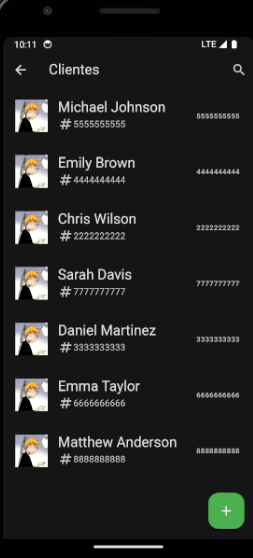
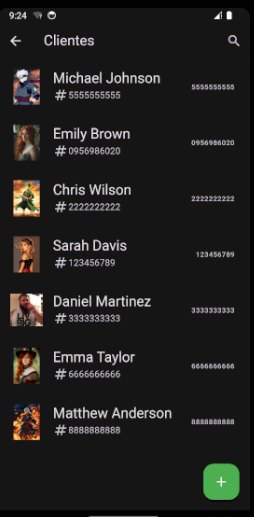
subiendo cambios

diff --git a/test/collection_test.dart b/test/collection_test.dart
@@ -1,0 +1,82 @@
+import 'dart:developer';
+import 'package:f_managment_stream_accounts/models/client.dart';
+import 'package:mongo_dart/mongo_dart.dart';
+
+class Subscription {
+  String? _cod;
+  List<Client>? _clients;
+  double? _valueToPay;
+
+  Subscription(
+      {String? codSubscription, List<Client>? clients, double? valueToPay})
+      : _cod = codSubscription,
+        _clients = clients,
+        _valueToPay = valueToPay;
+
+  factory Subscription.fromMapObject(Map<String, dynamic> map) {
+    // Parseando la lista de clientes desde el mapa
+    //log(map.toString());
+    try {
+      dynamic clientsData = (map['clients'] ?? map['CLIENTS']);
+      //log(clientsData.toString());
+      List<Client> clientes = clientsData
+          .map((clientMap) => Client.fromMap(clientMap))
+          .toList()
+          .cast<Client>();
+
+      //log(clientes.toString());
+      return Subscription(
+          codSubscription: map['cod_subscription'], clients: clientes);
+    } catch (e) {
+      throw FormatException(
+          'Error al convertir el mapa a objeto Subscription $e');
+    }
+  }
+
+  Map<String, dynamic> toMap() {
+    return {
+      'cod_subscription': codSubscription,
+      'clients': clients!.map((c) => c.toMapIdAndPrice()).toList(),
+      'value_to_pay': valueToPay,
+    };
+  }
+
+  // Getter methods
+  String? get codSubscription => _cod;
+  List<Client>? get clients => _clients!;
+  double get valueToPay => _valueToPay!;
+}
+
+void main() async {
+  Db? db;
+
+  try {
+    db = Db('mongodb://localhost:27017/test');
+    await db.open();
+  } catch (e) {
+    log('$e');
+  }
+
+  ///Crear la subscripcion
+  List<Client> clientes = [
+    Client(nameClient: 'Eduardo', direction: 'Olmedo'),
+    Client(nameClient: 'Jaime', direction: 'Quevedo'),
+    Client(nameClient: 'Pedro', direction: 'Cordova'),
+  ];
+
+  Subscription subscription =
+      Subscription(codSubscription: "001", clients: clientes, valueToPay: 20);
+  final collection = db!.collection('subscripcion_test');
+  var res = await collection.insertOne(subscription.toMap());
+
+  log("${res.isSuccess}");
+
+  //var result = await collection!.findOne({'_id': uid});
+  final match =
+      Match({'_id': ObjectId.fromHexString('66dddd7f22f8b293d0000000')});
+  var result = await collection.findOne({'_id': ObjectId.fromHexString('66dddd7f22f8b293d0000000')});
+  //var result = await collection!.aggregateToStream(pipeline).first;
+  print("{$result}");
+
+  await db.close();
+}

diff --git a/lib/controllers/mongo/subscription_controller_mongo.dart b/lib/controllers/mongo/subscription_controller_mongo.dart
@@ -340,6 +340,6 @@ class SubscriptionControllerMongo {
         .build();
     var result = await collection!.aggregateToStream(pipeline).first;
     log(result.toString());
-    return Subscription.fromMapObject(result)!;
+    return Subscription.fromMapObject(result);
   }
 }

diff --git a/README.md b/README.md
@@ -8,15 +8,42 @@
 
 ![alt text](images/home_menu.png)
 
+
 ### Clientes
 
 ![alt text](images/menu_clientes.png)
+
+#### Formulario
+
+![alt text](/images/menu_clientes_form.png)
 
 ### Cuentas
 
 ![alt text](images/menu_cuentas.png)
 
+#### Formulario
+
+![alt text](/images/menu_cuentas_form.png)
+
+### Subscripcion
+
+![alt text](/images/menu_subscripcion.png)
+
+#### Formulario
+
+**Crear**
+
+![alt text](/images/menu_subscripcion_form2.png)![alt text](/images/menu_subscripcion_form3.png)
+
+**Actualizar**
+
+![alt text](/images/menu_subscripcion_form.png)![alt text](/images/menu_subscripcion_form1.png)
+
+
 ### Plataformas
 
 ![alt text](images/menu_plataformas.png)
 
+#### Formulario
+
+![alt text](/images/menu_plataformas_form.png)
